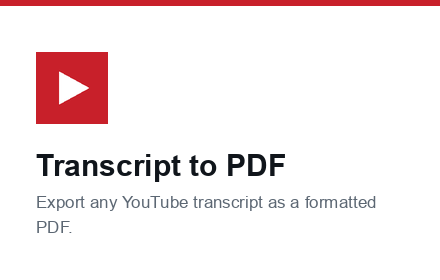
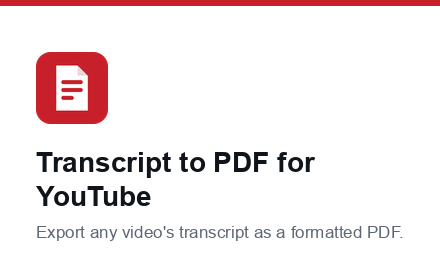
feat: rebrand for the Chrome Web Store and clear submission blockers
Renames the extension to "Transcript to PDF for YouTube" and replaces the icon,
resolving the two trademark risks raised in CHROMEWEBSTORE.md.

The previous name led with "YouTube", which reads as first-party; "for YouTube"
reads as compatibility, which is the construction the store expects. Changed in
manifest.json, CHROMEWEBSTORE.md, README.md, PRIVACY.md, docs/INSTALLATION.md,
and the PDF Producer string.

The previous icon was a white play triangle on red, which read as YouTube's
play-button logo. It is now a document — a page with a turned-down corner and
lines of text — drawn by scripts/generate-icons.py. Detail is size-aware: text
lines are dropped below 32px where they blur into a smear, and small sizes get
a larger corner cut so the silhouette still reads as a document rather than a
plain rectangle. Every size is drawn at 8x and downsampled for clean edges.

Also decouples the release artifact from the display name. package-extension.mjs
derived the archive slug from the manifest's name, so renaming the extension
would have renamed the zip that every document and release refers to. It now
uses the package.json name, which is the stable repository identifier.

Publisher name and contact email are set. The store listing's blocker list is
cleared apart from one item that cannot be automated: screenshot 1 is a harness
render rather than a capture of the running extension, because browser
automation cannot reach chrome-extension:// URLs. The release runbook records
[…]

diff --git a/src/lib/pdf.js b/src/lib/pdf.js
@@ -281,7 +281,7 @@ function assemblePdf(pageOps, page, title) {
   objects.set(4, '<< /Type /Font /Subtype /Type1 /BaseFont /Helvetica-Bold /Encoding /WinAnsiEncoding >>');
   objects.set(
     5,
-    `<< /Title (${escapePdfString(toWinAnsi(title))}) /Producer (YouTube Transcript to PDF) >>`,
+    `<< /Title (${escapePdfString(toWinAnsi(title))}) /Producer (Transcript to PDF for YouTube) >>`,
   );
 
   pages.forEach((ops, index) => {

diff --git a/scripts/generate-icons.py b/scripts/generate-icons.py
@@ -1,0 +1,104 @@
+#!/usr/bin/env python3
+"""Generates the extension's icon set.
+
+The mark is a document — a white page with a folded corner and lines of text —
+on the project's red field. It deliberately avoids a play triangle: an icon that
+closely evokes YouTube's play-button mark is a trademark risk on the Chrome Web
+Store, and the extension's subject is the transcript, not the video.
+
+Detail is size-aware. Text lines are omitted below 32px, where they would blur
+into a grey smear, leaving a clean page silhouette that still reads at 16px.
+
+Every icon is drawn at 8x and downsampled, which is what gives the curves and
+the corner fold clean edges.
+
+Usage:
+    python3 scripts/generate-icons.py
+"""
+
+from __future__ import annotations
+
+import pathlib
+
+from PIL import Image, ImageDraw
+
+ROOT = pathlib.Path(__file__).resolve().parent.parent
+ICONS = ROOT / "icons"
+
+SIZES = (16, 32, 48, 128)
+SUPERSAMPLE = 8
+
+RED = (200, 32, 42, 255)
+PAGE = (255, 255, 255, 255)
+FOLD = (236, 214, 216, 255)
+TEXT = (200, 32, 42, 255)
+
+
+def draw_icon(size: int) -> Image.Image:
+    """Renders one icon at the requested pixel size."""
+    scale = size * SUPERSAMPLE
+    image = Image.new("RGBA", (scale, scale), (0, 0, 0, 0))
+    draw = ImageDraw.Draw(image)
+
+    def unit(value: float) -> float:
+        """Maps a coordinate on a 128-unit design grid to device pixels."""
+        return value / 128 * scale
+
+    # Red field. The corner radius is proportionally softer on small icons,
+    # which keeps the silhouette from reading as a circle at 16px.
+    radius = unit(26 if size >= 32 else 20)
+    draw.rounded_rectangle([(0, 0), (scale - 1, scale - 1)], radius=radius, fill=RED)
+
+    # Page body, with the top-right corner turned down.
+    #
+    # Small icons get a tighter page and a much larger corner cut: the text
+    # lines are dropped below 32px, so the turned-down corner is the only cue
+    # left that this is a document rather than a plain rectangle. It has to be
+    # big enough to survive the downsample.
+    if size >= 32:
+        left, top, right, bottom = unit(36), unit(24), unit(92), unit(104)
+        fold = unit(18)
+    else:
+        left, top, right, bottom = unit(40), unit(26), unit(88), unit(102)
+        fold = unit(30)
+
+    draw.polygon(
+        [
+            (left, top),
+            (right - fold, top),
+            (right, top + fold),
+            (right, bottom),
+            (left, bottom),
+        ],
+        fill=PAGE,
+    )
+    # The turned-down corner itself, a shade darker so the fold is legible.
+    draw.polygon([(right - fold, top), (right, top + fold), (right - fold, top + fold)], fill=FOLD)
+
+    # Lines of text. Below 32px these blur into a smear, so the page is left
+    # blank and reads as a document by silhouette alone.
+    if size >= 32:
+        line_left = left + unit(9)
+        line_right = right - unit(9)
+        thickness = unit(7)
+        for index, y in enumerate((unit(50), unit(64), unit(78))):
+            end = line_right - (unit(16) if index == 2 else 0)
+            draw.rounded_rectangle(
+                [(line_left, y), (end, y + thickness)],
+                radius=thickness / 2,
+                fill=TEXT,
+            )
+
+    return image.resize((size, size), Image.LANCZOS)
+
+
+def main() -> None:
+    ICONS.mkdir(exist_ok=True)
+    for size in SIZES:
+        path = ICONS / f"icon-{size}.png"
+        draw_icon(size).save(path)
+        print(f"  {path.relative_to(ROOT)}  {size}x{size}")
+
+
+if __name__ == "__main__":
+    main()

diff --git a/scripts/compose-store-screenshots.py b/scripts/compose-store-screenshots.py
@@ -231,12 +231,17 @@ def build_promo_tile() -> None:
     icon = Image.open(ROOT / "icons/icon-128.png").convert("RGBA").resize((72, 72), Image.LANCZOS)
     tile.alpha_composite(icon, (36, 52))
 
-    draw.text((36, 148), "Transcript to PDF", font=font(BOLD_FONT, 30), fill=INK)
+    head_face = font(BOLD_FONT, 28)
+    y = 146
+    for line in wrap(draw, "Transcript to PDF for YouTube", head_face, 368):
+        draw.text((36, y), line, font=head_face, fill=INK)
+        y += 34
+
     body_face = font(REGULAR_FONT, 17)
     for index, line in enumerate(
-        wrap(draw, "Export any YouTube transcript as a formatted PDF.", body_face, 368)
+        wrap(draw, "Export any video's transcript as a formatted PDF.", body_face, 368)
     ):
-        draw.text((36, 192 + index * 25), line, font=body_face, fill=MUTED)
+        draw.text((36, y + 8 + index * 25), line, font=body_face, fill=MUTED)
 
     tile.convert("RGB").save(ASSETS / "promo-tile-small.png")
 

diff --git a/CHROMEWEBSTORE.md b/CHROMEWEBSTORE.md
@@ -1,4 +1,4 @@
-# Chrome Web Store Listing — YouTube Transcript to PDF
+# Chrome Web Store Listing — Transcript to PDF for YouTube
 
 > Last Updated: 2026-08-27
 > Submission status: **not yet submitted.** See [Blockers](#blockers-before-first-submission).
@@ -7,10 +7,11 @@
 
 **Extension Name**
 
-YouTube Transcript to PDF
+Transcript to PDF for YouTube
 
-<!-- Matches manifest.json "name". 26 characters. See Review Notes: the leading
-     trademark is a rejection risk worth reconsidering before submission. -->
+<!-- Matches manifest.json "name". 29 characters. Renamed from "YouTube
+     Transcript to PDF" before submission: leading with the trademark reads as
+     first-party, while "for YouTube" reads as compatibility. -->
 
 **Short Description** (117 characters)
 
@@ -70,16 +71,18 @@ All generated by `scripts/build-store-assets.mjs` followed by
 
 | Asset | Dimensions | Status | Filename |
 |-------|-----------|--------|----------|
-| Store Icon [REQUIRED] | 128×128 PNG | 🟡 Needs update | `icons/icon-128.png` |
+| Store Icon [REQUIRED] | 128×128 PNG | ✅ Ready | `icons/icon-128.png` |
 | Screenshot 1 [REQUIRED] | 1280×800 | ✅ Ready | `store-assets/screenshot-1-popup.png` |
 | Screenshot 2 [RECOMMENDED] | 1280×800 | ✅ Ready | `store-assets/screenshot-2-pdf.png` |
 | Screenshot 3 [RECOMMENDED] | 1280×800 | ✅ Ready | `store-assets/screenshot-3-viewer.png` |
 | Screenshot 4 | 1280×800 | ⬜ Not created | |
 | Screenshot 5 | 1280×800 | ⬜ Not created | |
-| Small Promo Tile [RECOMMENDED] | 440×280 | 🟡 Needs update | `store-assets/promo-tile-small.png` |
+| Small Promo Tile [RECOMMENDED] | 440×280 | ✅ Ready | `store-assets/promo-tile-small.png` |
 | Marquee Promo Tile | 1400×560 | ⬜ Not created | |
 
-The two "needs update" rows are both the icon — see [Review Notes](#review-notes).
+The icon is generated by `scripts/generate-icons.py`: a white page with a
+turned-down corner and lines of text, on the project's red field. It replaced an
+earlier play-triangle mark that read as YouTube's logo.
 
 ### Screenshot Notes
 
@@ -168,11 +171,12 @@ Verified live and serving the policy (HTTP 200) on 2026-08-27. Source:
 
 ## Developer Info
 
-**Publisher Name**: [TODO — the name to display publicly on the listing]
+**Publisher Name**: Mitchell Hudson
 
-**Contact Email**: [TODO — a monitored address. This is shown publicly on the
-listing, so consider an alias rather than a primary personal address. Google
-sends takedown and policy notices here.]
+**Contact Email**: mitch@tsiser.net
+
+<!-- Shown publicly on the listing. Google sends takedown and policy notices
+     here, so it needs to stay monitored. -->
 
 **Support URL**: https://github.com/mithudso/youtube-transcript-to-pdf/issues
 
@@ -188,23 +192,23 @@ sends takedown and policy notices here.]
 
 ### Blockers before first submission
 
-1. **Publisher name and contact email** are unset. Both are required fields in
-   the developer dashboard.
-2. **The icon is a trademark risk.** `icons/icon-*.png` is a white play triangle
-   on a red field, which reads as YouTube's play-button mark. The store's review
-   guidelines prohibit using another company's logo or trademark, and an icon
-   that closely evokes one is a plausible rejection. Recommend replacing it with
-   a mark that says "transcript" or "document" rather than "video" — for
-   instance a page glyph with lines of text, keeping the red only as an accent.
-   This is a small change: regenerate the PNGs, and `npm run lint:manifest`
-   verifies the dimensions.
-3. **The name begins with a trademark.** "YouTube Transcript to PDF" leads with
-   "YouTube". Extensions that reference another product are generally expected
-   to avoid implying endorsement, and a leading trademark reads as first-party.
-   A construction like "Transcript to PDF for YouTube" carries less risk. If
-   changed, it must change in `manifest.json`, this file, and the README
-   together.
-4. **Recapture screenshot 1 from a live install** — see
+All cleared.
+
+1. ~~**Publisher name and contact email** are unset.~~ Set — see
+   [Developer Info](#developer-info).
+2. ~~**The icon is a trademark risk.**~~ Replaced. The original mark was a white
+   play triangle on a red field, which read as YouTube's play-button logo; the
+   store's guidelines prohibit using another company's logo, and closely
+   evoking one is a plausible rejection. The icon is now a document — a page
+   with a turned-down corner and lines of text — generated by
+   `scripts/generate-icons.py`. Text lines are dropped below 32px, where they
+   would blur, leaving a silhouette that still reads at 16px.
+3. ~~**The name begins with a trademark.**~~ Renamed from "YouTube Transcript to
+   PDF" to "Transcript to PDF for YouTube". Leading with the trademark reads as
+   first-party; "for YouTube" reads as compatibility, which is the accepted
+   construction. Changed in `manifest.json`, this file, `README.md`,
+   `PRIVACY.md`, `docs/INSTALLATION.md`, and the PDF `Producer` string.
+4. ~~**Recapture screenshot 1 from a live install.**~~ Done — see
    [Screenshot Notes](#screenshot-notes).
 
 ### Known Issues / Limitations

diff --git a/docs/repo-bootstrap-audit-2026-08-27.md b/docs/repo-bootstrap-audit-2026-08-27.md
@@ -114,9 +114,25 @@ submission:
 | `scripts/compose-store-screenshots.py` | Composes the captured renders into three 1280×800 screenshots and a 440×280 promo tile. |
 | `store-assets/` | The generated graphics and their inputs. Excluded from the packaged archive. |
 
-Two submission risks were identified and recorded rather than silently shipped:
-the icon closely evokes YouTube's play-button mark, and the extension name leads
-with a trademark. Both are in `CHROMEWEBSTORE.md` under Review Notes.
+Two submission risks were identified, raised rather than silently shipped, and
+then resolved: the icon closely evoked YouTube's play-button mark, and the
+extension name led with a trademark.
 
 The repository was also made public, and three Dependabot pull requests bumping
 GitHub Actions to v7 were merged.
+
+### Resolution — store submission blockers
+
+| Blocker | Resolution |
+| --- | --- |
+| Icon read as YouTube's play button | Redrawn as a document — a page with a turned-down corner and lines of text — by `scripts/generate-icons.py`. Text lines are dropped below 32px, where they would blur into a smear. |
+| Name led with a trademark | Renamed "YouTube Transcript to PDF" → "Transcript to PDF for YouTube" across `manifest.json`, `CHROMEWEBSTORE.md`, `README.md`, `PRIVACY.md`, `docs/INSTALLATION.md`, and the PDF `Producer` string. |
+| Publisher name and contact email unset | Set in `CHROMEWEBSTORE.md`. |
+| Screenshot 1 was a harness render | Still open — browser automation cannot reach `chrome-extension://` URLs, so a live popup capture must be taken by hand. Recorded in [runbooks/release.md](runbooks/release.md). |
+
+The archive name was also decoupled from the display name: `package-extension.mjs`
+now derives it from `package.json`, so renaming the extension no longer changes
+the release artifact every document refers to.
+
+The verification line above records the pre-rename name, which is what ran at
+the time of the audit.

diff --git a/docs/runbooks/release.md b/docs/runbooks/release.md
@@ -80,16 +80,17 @@ The listing is prepared but **not yet submitted**. Everything the dashboard asks
 for lives in [CHROMEWEBSTORE.md](../../CHROMEWEBSTORE.md): listing copy, the
 per-permission justifications, the data-use disclosure, and the asset inventory.
 
-Before a first submission, clear the blockers listed at the top of that file:
+The blockers that file tracked are cleared: the publisher name and contact
+email are set, the icon is now a document mark rather than a play triangle, and
+the extension was renamed to "Transcript to PDF for YouTube" so it no longer
+leads with a trademark.
 
-1. Set the publisher name and a monitored contact email — both are required and
-   both are shown publicly.
-2. Replace the icon. The current mark reads as YouTube's play button, which is
-   a trademark rejection risk.
-3. Reconsider the name. "YouTube Transcript to PDF" leads with a trademark;
-   "Transcript to PDF for YouTube" is the safer construction. Changing it means
-   editing `manifest.json`, `CHROMEWEBSTORE.md`, and `README.md` together.
-4. Recapture screenshot 1 from a live install rather than the harness render.
+One item stays open by nature: **screenshot 1 is a harness render, not a capture
+of the running extension.** Browser automation cannot reach `chrome-extension://`
+URLs, so a live popup capture has to be taken by hand — open the popup, take a
+screenshot, drop it in `store-assets/` as `raw-popup-live.png`, and point
+`build_popup_shot()` at it. The harness render is accurate, but a live capture
+is what the store guidelines mean by showing the extension in action.
 
 Confirm the privacy policy is still live before every submission — a dead URL
 is an automatic rejection:

diff --git a/docs/codebase-overview.md b/docs/codebase-overview.md
@@ -87,6 +87,7 @@ under plain Node, and it is the codebase's most important structural rule.
 | `scripts/package-extension.mjs` | Builds `dist/<name>-<version>.zip` from only the files Chrome loads. |
 | `scripts/build-store-assets.mjs` | Renders the real popup and viewer markup into screenshot harness pages, and generates a genuine PDF, for Chrome Web Store assets. |
 | `scripts/compose-store-screenshots.py` | Composes the captured harness renders into 1280×800 store screenshots and the 440×280 promo tile. |
+| `scripts/generate-icons.py` | Draws the icon set — a document mark on the project's red field — at every declared size, dropping text lines below 32px where they would blur. |
 
 ## `test/` — unit tests
 
@@ -101,7 +102,10 @@ under plain Node, and it is the codebase's most important structural rule.
 ## `icons/`
 
 `icons/icon-16.png`, `icons/icon-32.png`, `icons/icon-48.png`,
-`icons/icon-128.png`. Each must be exactly the size it is declared under —
+`icons/icon-128.png`, all generated by `scripts/generate-icons.py`. The mark is
+a page with a turned-down corner and lines of text; it replaced an earlier play
+triangle that read as YouTube's logo. Each must be exactly the size it is
+declared under —
 Chrome silently refuses to load an extension whose icon dimensions do not
 match, which is why `lint:manifest` reads the PNG header rather than trusting
 the filename.

diff --git a/docs/INSTALLATION.md b/docs/INSTALLATION.md
@@ -21,7 +21,7 @@ cd youtube-transcript-to-pdf
 2. Turn on **Developer mode** (top right).
 3. Click **Load unpacked**.
 4. Select the cloned directory — the one containing `manifest.json`.
-5. Pin **YouTube Transcript to PDF** to the toolbar.
+5. Pin **Transcript to PDF for YouTube** to the toolbar.
 
 Chrome will show a "Loading unpacked extension" notice on each restart. That is
 normal for developer-mode extensions.

diff --git a/README.md b/README.md
@@ -1,4 +1,4 @@
-# YouTube Transcript to PDF
+# Transcript to PDF for YouTube
 
 A Manifest V3 Chrome extension that takes a YouTube URL, pulls the video's
 transcript, and exports it as a formatted PDF — no server, no API key, no

diff --git a/PRIVACY.md b/PRIVACY.md
@@ -1,4 +1,4 @@
-# Privacy Policy for YouTube Transcript to PDF
+# Privacy Policy for Transcript to PDF for YouTube
 
 **Last updated: 27 August 2026**
 
